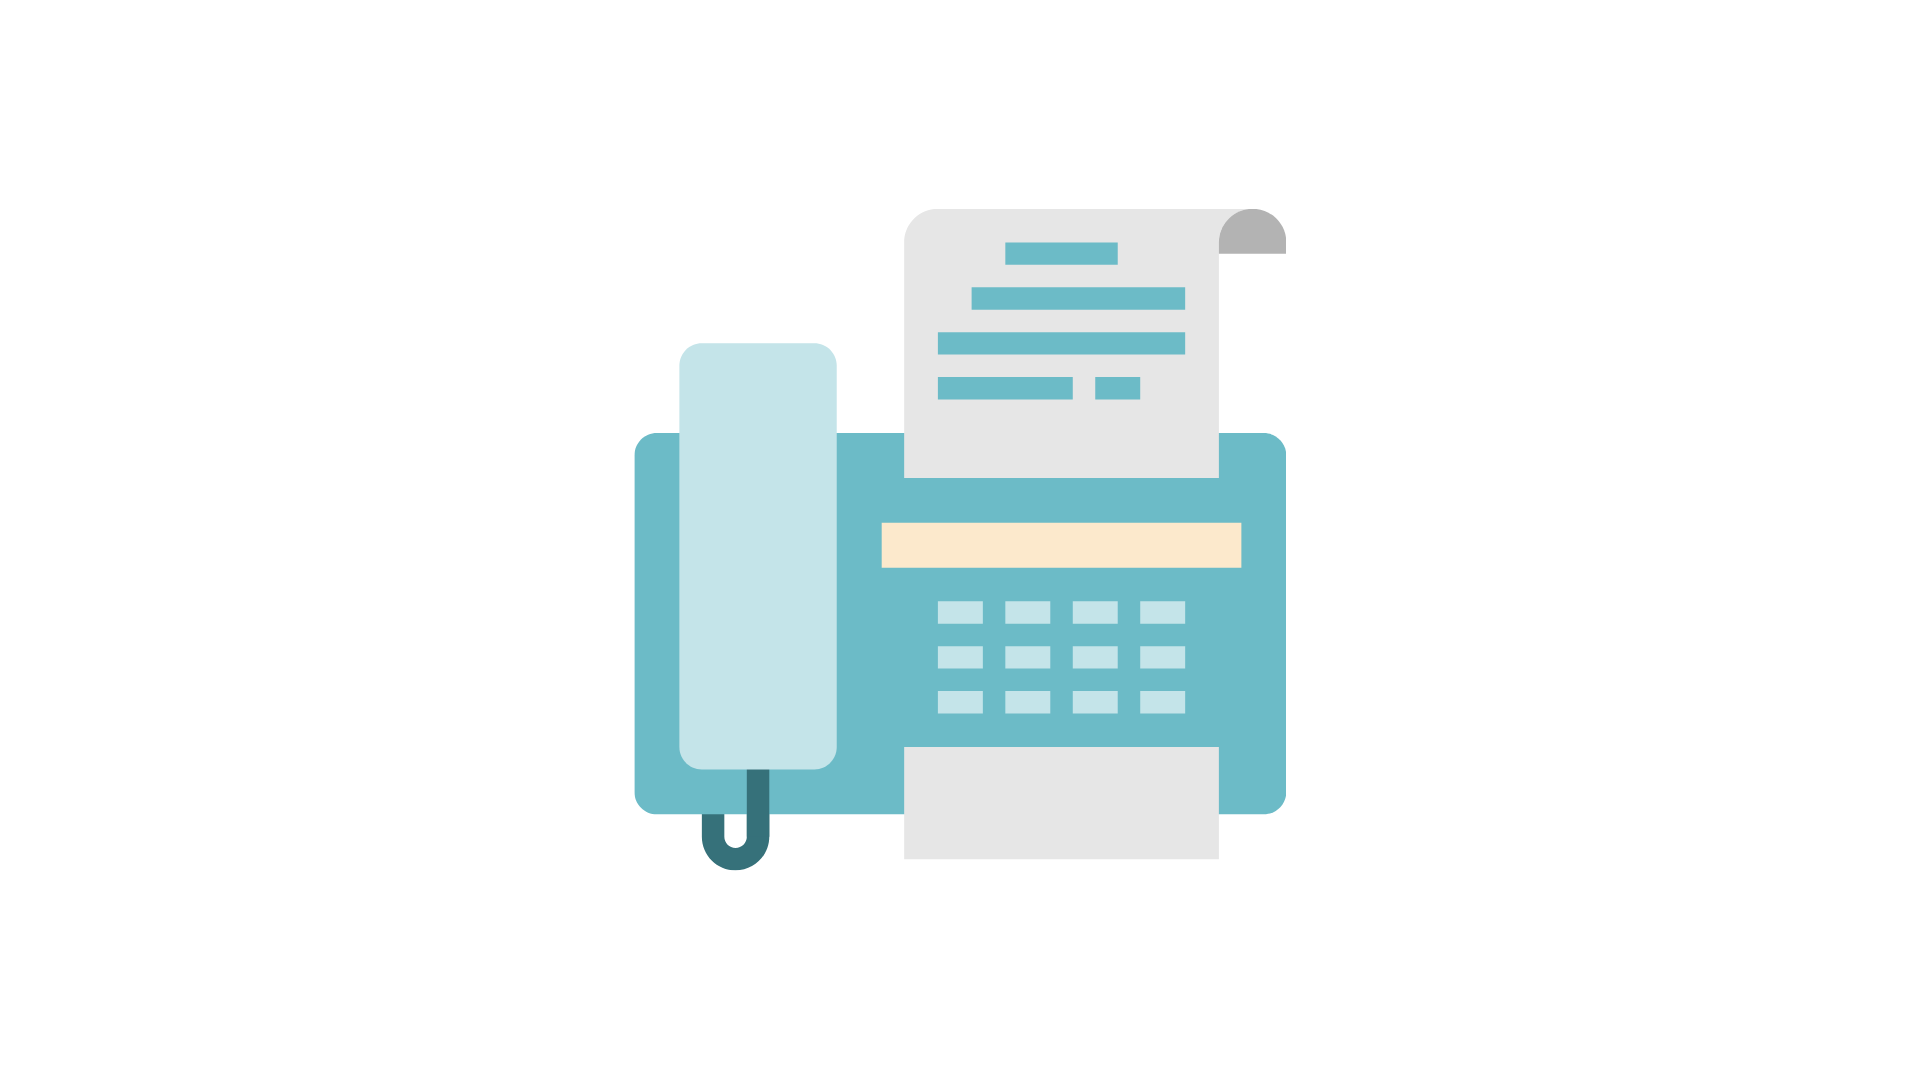
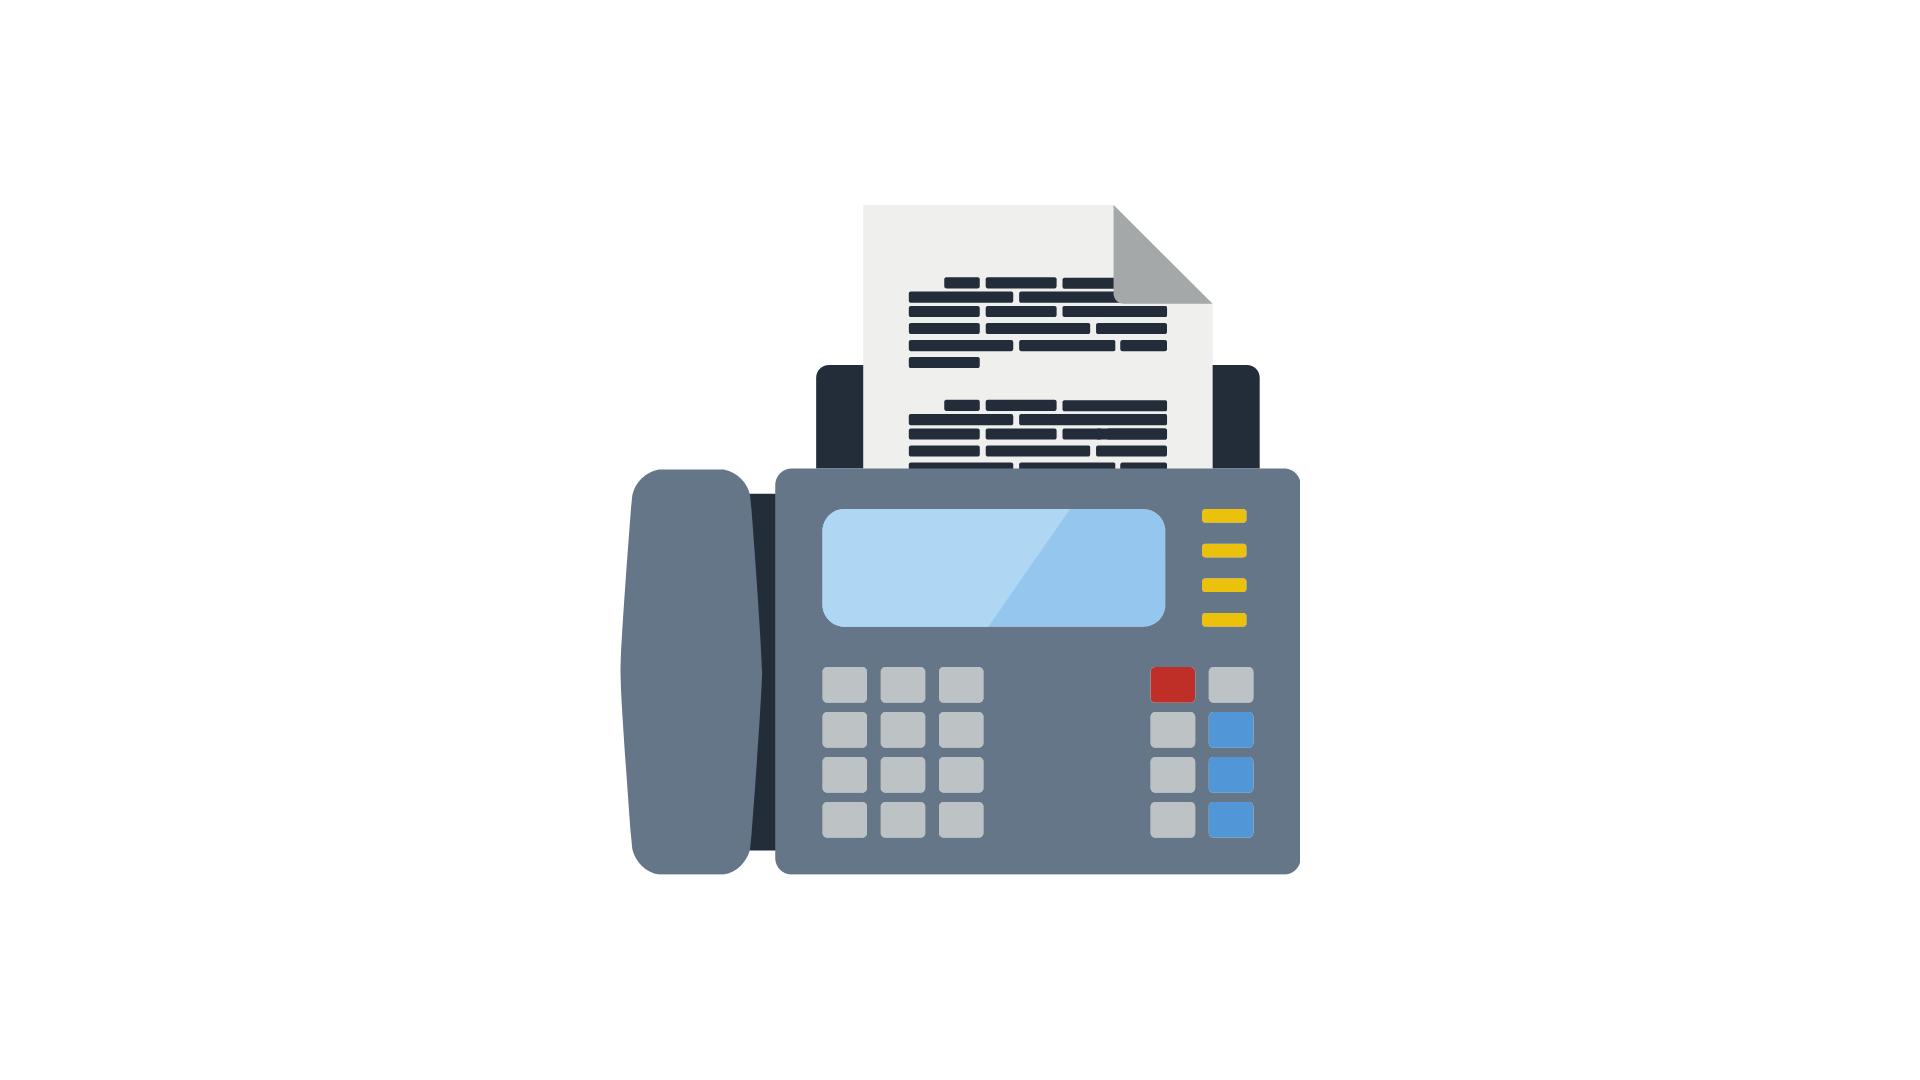
feat(#137): adicionado novas imagem

Changed region(s): [[0.3125, 0.1833, 0.6875, 0.825]]

diff --git a/src/utils/getImage.js b/src/utils/getImage.js
@@ -3,17 +3,17 @@ const imagens = {
   // nivel1
   l1q1: require('../assets/images/level1/gitComputer.gif'),
   l1q2: require('../assets/images/level1/photoPixel.png'),
-  l1q3: require('../assets/images/level1/ballPixel.png'),
+  l1q3: require('../assets/images/level1/hand.png'),
   l1q4: require('../assets/images/level1/grid.png'),
   l1q5: require('../assets/images/level1/fax.png'),
-  l1q6: require('../assets/images/level1/faxIn.gif'),
-  l1q7: require('../assets/images/level1/faxOut.gif'),
+  l1q6: require('../assets/images/level1/document.gif'),
+  l1q7: require('../assets/images/level1/faxOut.png'),
   // nivel2
   l2q1: require('../assets/images/level2/dog.png'),
   l2q2: require('../assets/images/level2/Cgrade.png'),
   // nivel3
-  l3q1: require('../assets/images/level3/bit.png'),
-  l3q2: require('../assets/images/level3/convert.png'),
+  l3q1: require('../assets/images/level3/heart.png'),
+  l3q2: require('../assets/images/level3/zip.png'),
   l3q3: require('../assets/images/level3/heart.png'),
   l3q4: require('../assets/images/level3/exGrid.png'),
 };
